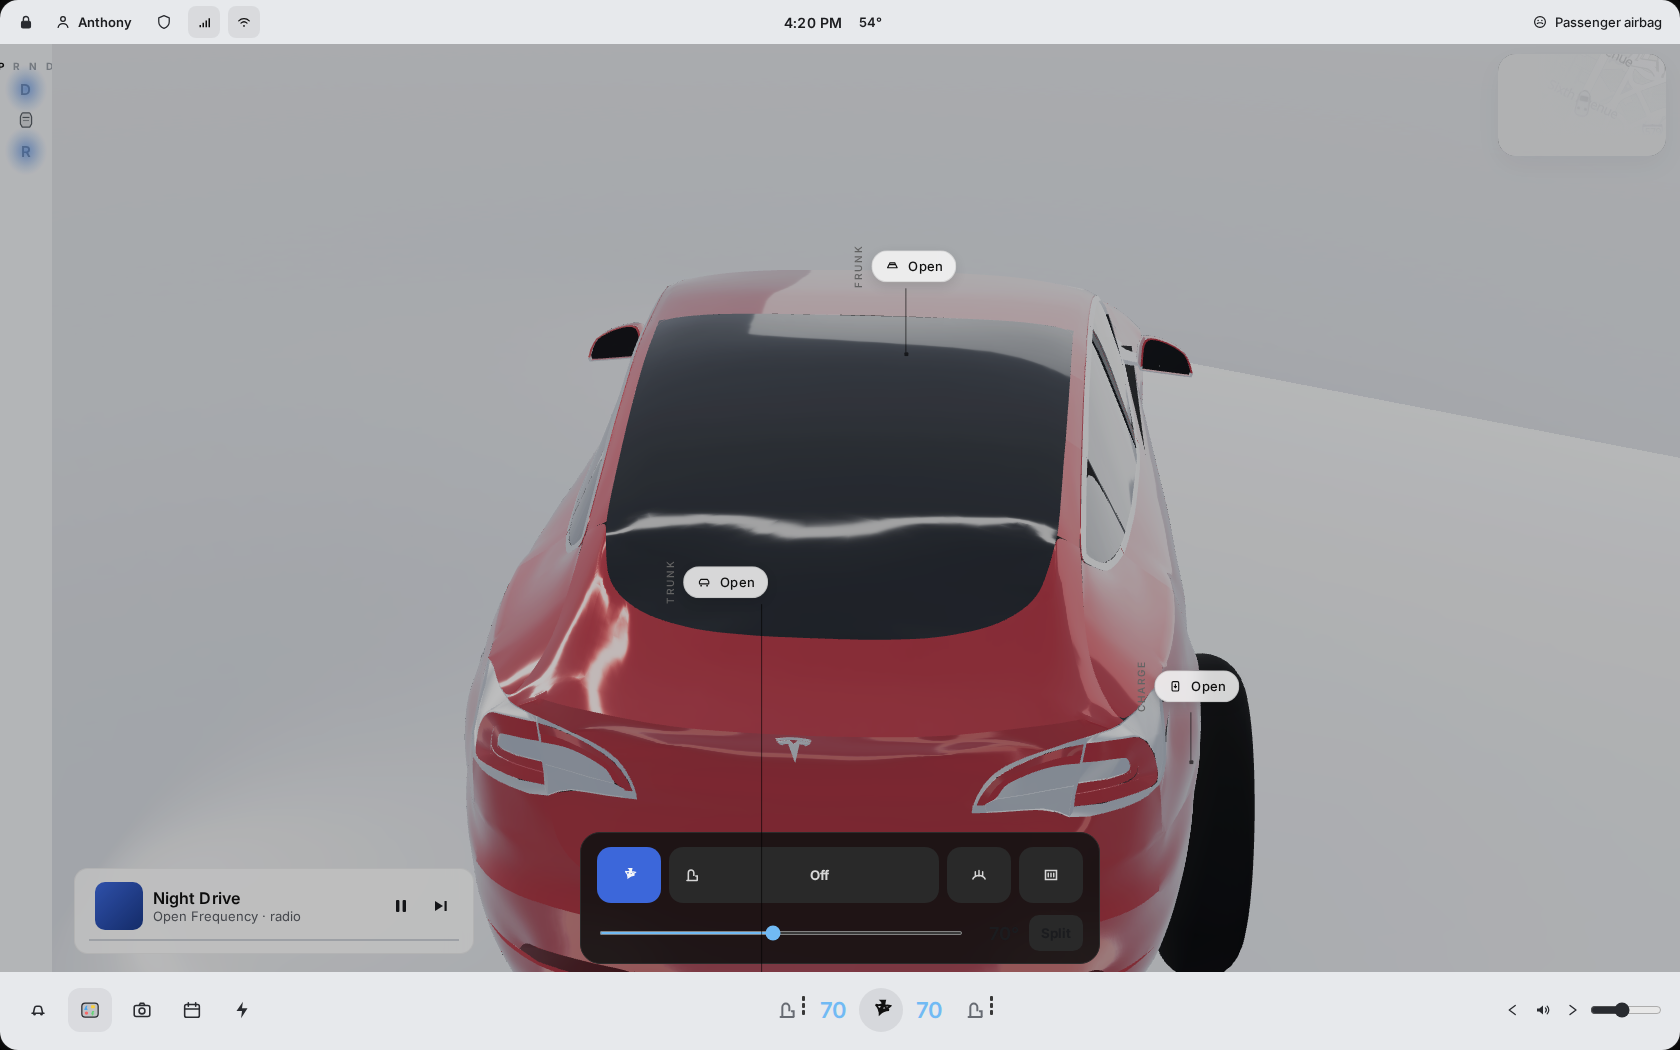
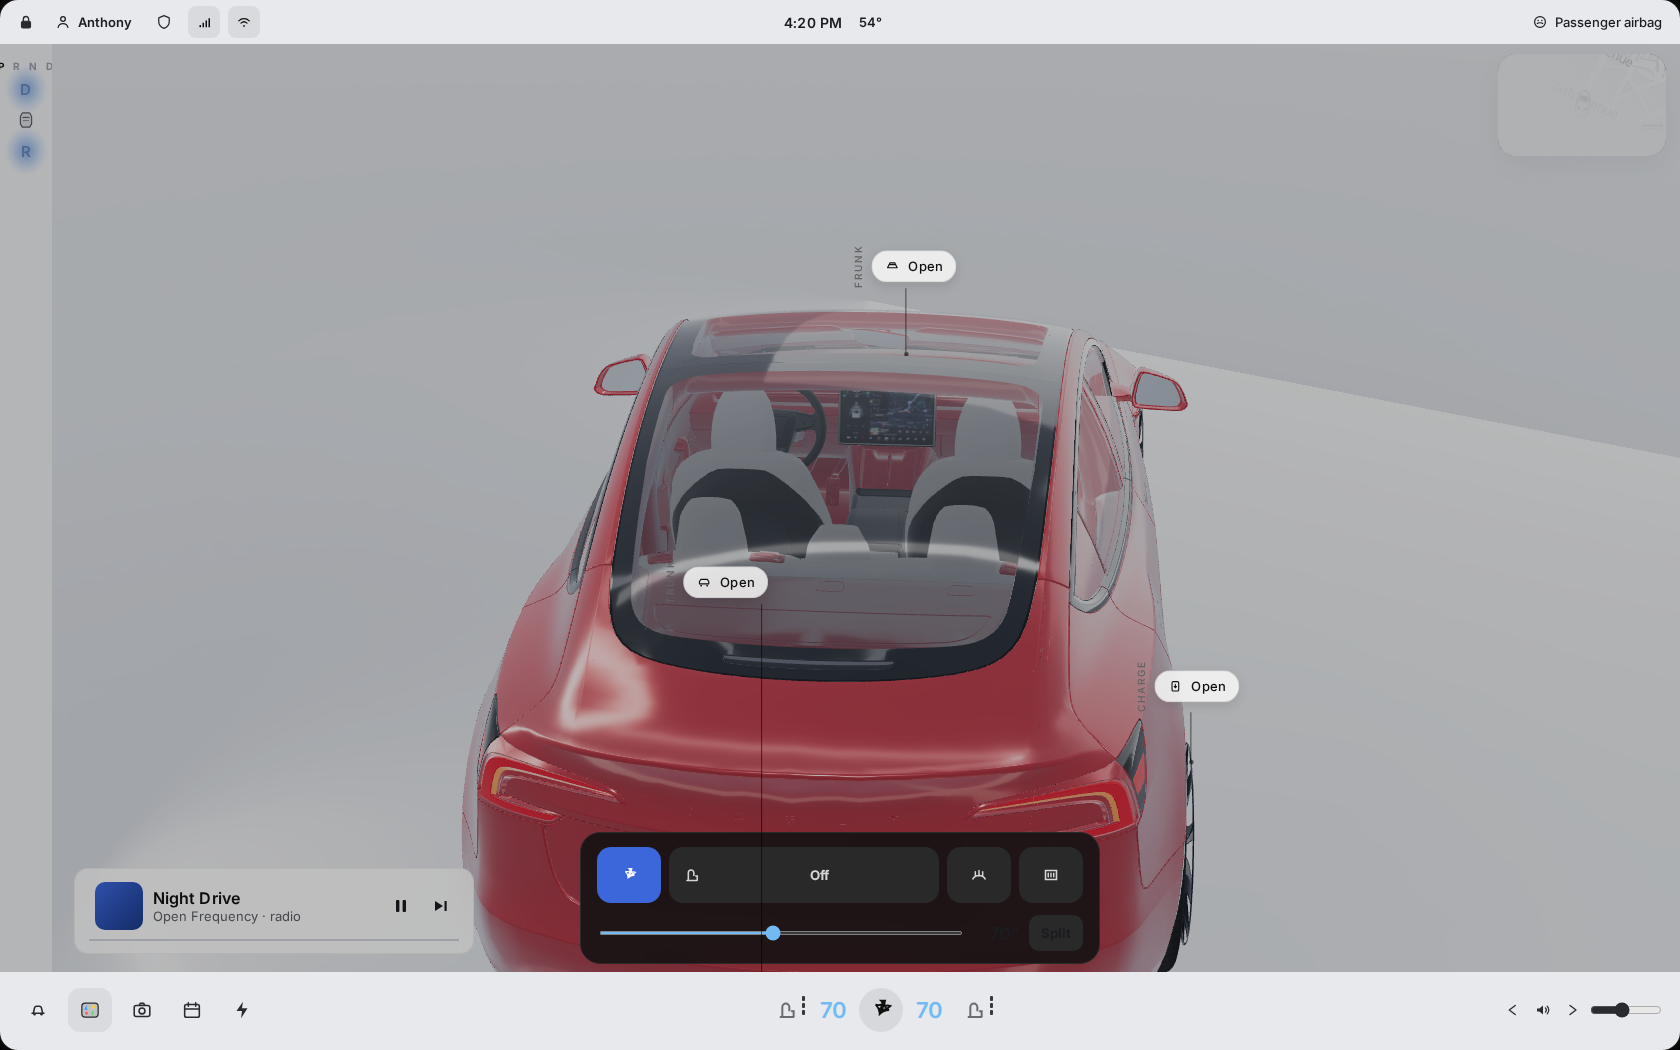
Score the Highland parked still and refresh QA screenshots.
Wait for the fitted mesh before capture, and record proportions as PASS against the nata reference.

Changed region(s): [[0.2476, 0.2438, 0.7738, 0.9448]]

diff --git a/tests/visual/qa.spec.ts b/tests/visual/qa.spec.ts
@@ -7,6 +7,7 @@ const OUT = path.join("docs", "qa", "screenshots");
 async function capture(page: import("@playwright/test").Page, scene: QaSceneId): Promise<void> {
   await page.goto(`/tesla-m3y-ui/?qa=${scene}`, { waitUntil: "domcontentloaded" });
   await page.waitForSelector('html[data-qa-ready="true"]', { timeout: 120_000 });
+  await page.waitForSelector('html[data-car-ready="true"]', { timeout: 120_000 });
   await page.evaluate(async () => {
     await document.fonts.ready;
   });

diff --git a/src/viz/Model3.tsx b/src/viz/Model3.tsx
@@ -101,6 +101,10 @@ export function Model3({
       lit,
       parked,
     });
+    document.documentElement.dataset.carReady = "true";
+    return () => {
+      delete document.documentElement.dataset.carReady;
+    };
   }, [car, lit, parked]);
 
   return (

diff --git a/docs/qa/CHECKLIST.md b/docs/qa/CHECKLIST.md
@@ -19,7 +19,7 @@ Baseline captured from this harness on 2026-09-16 (`docs/qa/screenshots/*.png`).
 
 | Scene | Latest still | vs reference | Status | Notes (update me) |
 | --- | --- | --- | --- | --- |
-| Parked home | `screenshots/parked-home.png` | `manual-m3-touchscreen-p8.jpg`, `nata-parked-car-vis.jpg`, `nata-status-bar.jpg` | PARTIAL | Higher rear three-quarter, whole car in frame, light dock. Status order: lock, profile, Sentry, cellular, Wi-Fi, time, outdoor temp, “Passenger airbag”. Runtime mesh is the Studio Highland import. See `MESH_REVIEW.md`. |
+| Parked home | `screenshots/parked-home.png` | `manual-m3-touchscreen-p8.jpg`, `nata-parked-car-vis.jpg`, `nata-status-bar.jpg` | PARTIAL | 2026-09-25 Highland import. Proportions PASS vs nata. Ultra Red, dark glass, and source wheels are in frame. Paint, glass, wheels, lighting, and leaders stay PARTIAL. Status order unchanged. See `MESH_REVIEW.md`. |
 | Route set | `screenshots/route-set.png` | `manual-m3-maps-nav-p170.jpg`, `nata-trip-progress.jpg` | PARTIAL | Turn list + Start FSD sit on the parked fullscreen (map snippet TR). Trip progress track is on the card; at the origin it is empty because nothing has been driven. Gray traveled path appears once the car moves (see FSD still). No traffic coloring, no energy-to-destination. |
 | FSD engaged | `screenshots/fsd-engaged.png` | `nata-ui-v12-hero.jpg`, `nata-intel-spring-update.jpg`, `nata-regen-speedometer.jpg` (`manual-m3-driving-status-p16.jpg` is Car Status p.14, not a driving viz) | PARTIAL | Low rear chase. Speed reads the number plus **mph** (not a mode name), hairline power bar on the left. Media card: title left, art right, `m:ss` and `−m:ss` on the scrubber. Gray street, blue lane, charcoal map with streets. Car mesh is the Studio Highland import. |
 | Controls open | `screenshots/controls.png` | `nata-quick-controls.jpg`, `nata-controls-search.jpg` | PARTIAL | Search Settings at top. Left rail: Controls / Dynamics / Charging / Autopilot / Locks / Lights / Display / Trips / Navigation / Safety / Service / Software / Wi-Fi. Quick Controls: lights Off–Auto + Auto High Beam, Fold Mirrors / Child Lock / Window Lock, wipers Off–IIII, Mirrors / Unavailable / Car Wash, Steering / Camera / Glovebox, brightness + Auto. Overlay sits on the **map** (viz stays). Remaining: not pixel-identical icons/type. |
@@ -40,7 +40,7 @@ Baseline captured from this harness on 2026-09-16 (`docs/qa/screenshots/*.png`).
 | Larger speed readout | `nata-regen-speedometer.jpg`, driving-status PDF | PARTIAL | ~128px tabular speed on the viz, with limit sign and blue set-speed above the road. Still Inter Tight, not Tesla’s type. |
 | Map orientation + tracking chip | Maps PDF p.169 | PARTIAL | Compass toggle exists; no “Tracking Disabled” chip. |
 | FSD viz ↔ map polyline | Tone + `nata-ui-v12-hero.jpg` (split viz/map); canned line stands in for OSRM | PASS | Marker on the route, heading-up so ahead is up; viz ribbon shares `interpolate()` at 32% of Pittsburgh→CMU. Driven portion of the map line is gray. Unit tests lock the frozen pose. |
-| Parked full-screen vehicle | UI v12 notes + `nata-parked-car-vis.jpg` | PARTIAL | Scene `parked-home` loads the Studio Highland mesh in Ultra Red. David_Holiday aero-wheel, cabin-blocker, and greenhouse-split hacks are not applied. See `LICENSE-3D.md` + `MESH_REVIEW.md`. |
+| Parked full-screen vehicle | UI v12 notes + `nata-parked-car-vis.jpg` | PARTIAL | Scene `parked-home` loads the Studio Highland mesh in Ultra Red. Silhouette, lamps, glass, and wheels are the Highland asset. Leader layout is still PARTIAL. See `LICENSE-3D.md` + `MESH_REVIEW.md`. |
 | Controls overlay on **map only** | Touchscreen PDF + `nata-quick-controls.jpg` | PARTIAL | Sheet covers the map pane; viz and dock stay. Not a pixel match of the light Intel still. |
 
 ## How to record a pass

diff --git a/docs/qa/MESH_REVIEW.md b/docs/qa/MESH_REVIEW.md
@@ -385,3 +385,23 @@ remeshed body, the TRUNK leader can't reach fully-empty studio at this camera,
 and true panel-gap/side-mirror fidelity still needs a higher-poly Highland mesh
 that can't be fetched without a Sketchfab token. QA: `npm test` (30) +
 `npm run typecheck` + `npm run qa:screenshots` (8/8) all green.
+
+# Highland import, 2026-09-25
+
+Still: `docs/qa/screenshots/parked-home.png`, compared with `docs/references/nata-parked-car-vis.jpg`.
+FSD chase: `docs/qa/screenshots/fsd-engaged.png`.
+
+Mesh: `public/models/highland/model.glb` copied from aditano/tesla-studio. 2024 Model 3 Highland, CC-BY-4.0, RBLXSupercars, 179,692 triangles. Textures and credits sit beside the GLB. `src/viz/highlandRig.ts` normalizes length to 4.72 m, splits `wheel_fl` / `wheel_fr` / `wheel_rl` / `wheel_rr`, and yaws the nose to +Z. The shell has no factory hinges, so frunk, trunk, and doors stay hit volumes.
+
+Not applied to this mesh: David_Holiday aero-wheel replacement, cabin blocker, greenhouse split, paint AO, and Capot / trunk node hinges. Those patches were compensating for the old shell.
+
+| Axis | Score | Notes |
+| --- | --- | --- |
+| Paint | PARTIAL | Ultra Red clearcoat on the Highland shell. Shoulder and C-pillar catch the studio key. Midtones are still a bit flatter than nata's candy photo. |
+| Glass | PARTIAL | Separate greenhouse panes, dark tint, cabin visible through the glass. The faceted one-piece roof is gone. Still more open than nata's black laminate. |
+| Wheels | PARTIAL | Source tires and multi-spoke wheels sit in all four arches. No empty front well and no red caliper brick. Darker than nata's bright 5-cover aero face. |
+| Proportions | PASS | Highland nose, lamps, mirrors, and glasshouse read as a Model 3. The long 27k overhang and melted window corners are gone. |
+| Lighting | PARTIAL | Same white studio and contact shadow as the previous parked pass. |
+| Leaders | PARTIAL | FRUNK and CHARGE sit on the body. TRUNK still rides high and grazes the roofline. |
+
+FSD uses the same fit. The chase camera sits behind a forward nose, and the Highland tail lamps are visible. Remaining gaps are finish (aero-cover brightness, glass darkness, leader layout), not a missing body.

diff --git a/docs/qa/screenshots/README.md b/docs/qa/screenshots/README.md
@@ -1,4 +1,4 @@
 # Generated by `npm run qa:screenshots`. Commit updates with checklist changes.
 
-Re-baselined 2026-09-16 for the parked paint / glass / studio loop (candy Ultra Red, pane-split glass, RectAreaLight C-pillar streak, TRUNK leader in empty studio), after the FSD ego was sampled onto the canned polyline so the viz and MapLibre share one pose, and again after the Highland Controls / climate / media / status-bar chrome pass. Parked-home remains PARTIAL vs `nata-parked-car-vis.jpg`; FSD viz ↔ map polyline is PASS; Controls / climate / media are PARTIAL.
+Re-baselined 2026-09-25 after parked and FSD views switched to the Tesla Studio Highland Model 3 (`public/models/highland/model.glb`). Parked-home is scored in `docs/qa/MESH_REVIEW.md` against `nata-parked-car-vis.jpg`. Proportions PASS. Paint, glass, wheels, lighting, and leaders stay PARTIAL. FSD viz to map polyline stays PASS.
 
